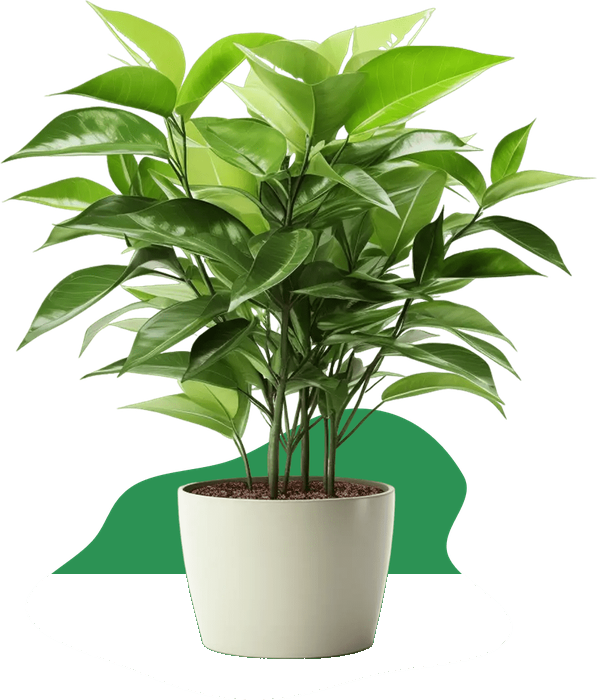
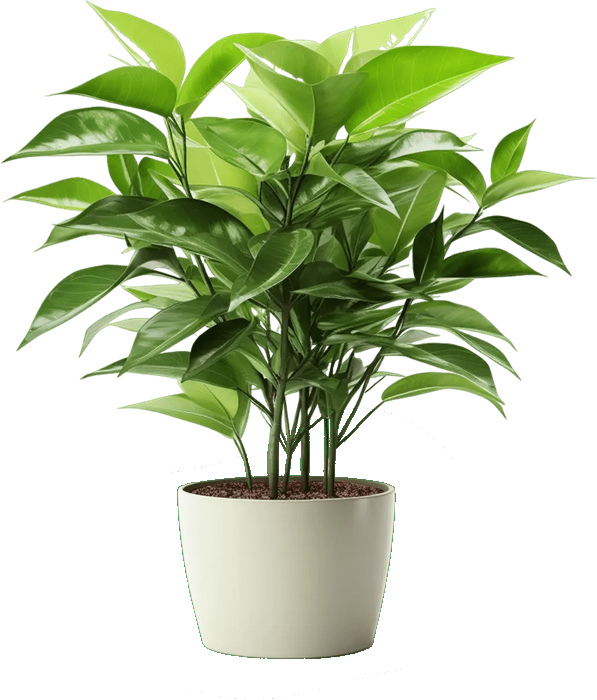
fix(plants): remove unnatural scale jumping, heavy drop-shadows and clean monstera background artifact

Changed region(s): [[0.0905, 0.57, 0.7839, 0.84]]

diff --git a/src/components/DesignCanvas.jsx b/src/components/DesignCanvas.jsx
@@ -647,14 +647,12 @@ export default function DesignCanvas({
                     zIndex: finalZIndex,
                   }}
                 >
-                  {/* Plant Container */}
+                  {/* Plant Container - Natural scale without sudden jumping */}
                   <div
-                    className={`relative transition-transform duration-150 ${
-                      isSelected
-                        ? viewMode === 'cenital'
-                          ? 'ring-2 ring-emerald-400 ring-offset-2 ring-offset-slate-950/80 rounded-full'
-                          : 'scale-[1.03]'
-                        : 'hover:brightness-105'
+                    className={`relative ${
+                      isSelected && viewMode === 'cenital'
+                        ? 'ring-2 ring-emerald-400 ring-offset-2 ring-offset-slate-950/80 rounded-full'
+                        : ''
                     }`}
                     style={{ width: `${renderedWidth}px`, height: viewMode === 'cenital' ? `${renderedWidth}px` : 'auto' }}
                   >
@@ -772,9 +770,7 @@ export default function DesignCanvas({
                           className="w-full h-auto object-contain pointer-events-none select-none transition-transform duration-150"
                           style={{
                             transform: instance.flipped ? 'scaleX(-1)' : 'none',
-                            filter: isSelected
-                              ? 'drop-shadow(0 20px 16px rgba(0,0,0,0.65)) drop-shadow(0 0 8px rgba(16,185,129,0.5))'
-                              : 'drop-shadow(0 15px 12px rgba(0,0,0,0.5)) drop-shadow(0 3px 5px rgba(0,0,0,0.3))',
+                            filter: 'none',
                           }}
                         />
                       </div>
